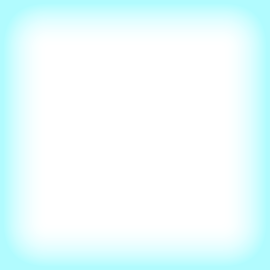
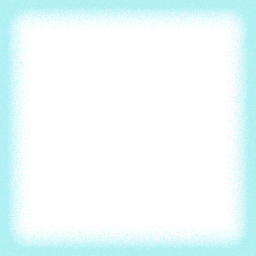
Fixed the app
Replaced box assets by power-of-two img size and that fixed the bug. Replaced app icon (wasn't working properly). Changed properties of first five levels and free game in order for them to be achievable.

diff --git a/core/src/com/nicocharm/biodots/BioDots.java b/core/src/com/nicocharm/biodots/BioDots.java
@@ -331,7 +331,7 @@ public class BioDots extends Game {
         freeGame.setInitialTime(0);
         freeGame.setnBacterias(15);
         freeGame.setMutationStDev(0.033f);
-        freeGame.setpOfRep(0.0025);
+        freeGame.setpOfRep(0.0005);
         freeGame.setFreeGame(true);
         freeGame.setInterval(2f);
 
@@ -404,6 +404,7 @@ public class BioDots extends Game {
 
 		level = new ScreenCreator();
 		level.setInitial_pOfDying(1f);
+        level.setpOfRep(0.0008);
 
 		buttonTypes = new short[5];
 		buttonTypes[0] = Antibiotic.ANTIBIOTIC_WHITE;
@@ -420,7 +421,7 @@ public class BioDots extends Game {
 		}
 		level.setBacteriaTypes(types);
 
-		level.setInitialTime(60f);
+		level.setInitialTime(120f);
 
 		goals = new String[2];
 		goals[0] = "Matá a las bacterias!\nSi no te apurás se dividen!";
@@ -448,6 +449,7 @@ public class BioDots extends Game {
 
 		level = new ScreenCreator();
 		level.setInitial_pOfDying(1f);
+		level.setpOfRep(0.0007);
 
 		buttonTypes = new short[5];
 		buttonTypes[0] = Antibiotic.ANTIBIOTIC_WHITE;
@@ -464,7 +466,7 @@ public class BioDots extends Game {
 		}
 		level.setBacteriaTypes(types);
 
-		level.setInitialTime(60f);
+		level.setInitialTime(120f);
 
 		goals = new String[2];
 		goals[0] = "El antibiotico azul es más\n" +
@@ -497,7 +499,8 @@ public class BioDots extends Game {
 
 		level = new ScreenCreator();
 		level.setInitial_pOfDying(1f);
-		level.setInitialTime(60f);
+		level.setInitialTime(120f);
+        level.setpOfRep(0.0010);
 
 		buttonTypes = new short[5];
 		buttonTypes[0] = Antibiotic.ANTIBIOTIC_WHITE;
@@ -554,6 +557,7 @@ public class BioDots extends Game {
 
 		level = new ScreenCreator();
 		level.setInitial_pOfDying(1f);
+        level.setpOfRep(0.0008);
 
 		buttonTypes = new short[5];
 		buttonTypes[0] = Antibiotic.ANTIBIOTIC_WHITE;
@@ -617,6 +621,7 @@ public class BioDots extends Game {
 
 		level = new ScreenCreator();
 		level.setInitial_pOfDying(1f);
+        level.setpOfRep(0.0008);
 
 		buttonTypes = new short[5];
 		buttonTypes[0] = Antibiotic.ANTIBIOTIC_WHITE;

diff --git a/core/src/com/nicocharm/biodots/Assets.java b/core/src/com/nicocharm/biodots/Assets.java
@@ -21,10 +21,11 @@ public class Assets {
         manager  = new AssetManager();
     }
     public void load(){
+
         manager.load("title.png", Texture.class);
 
         //manager.load("small-textures.pack", TextureAtlas.class);
-
+        Gdx.app.log("tag", "loading assets");
         manager.load("menu-button.png", Texture.class);
         manager.load("menu-button-transparent.png", Texture.class);
         manager.load("power-bar-bg.png", Texture.class);
@@ -105,7 +106,7 @@ public class Assets {
         font4.fontParameters.size = 80;
         manager.load("Roboto-Regular.ttf", BitmapFont.class, font4);*/
 
-
+        Gdx.app.log("tag", "finishing loading assets");
     }
     public void finishLoading(){
         manager.finishLoading();

diff --git a/core/src/com/nicocharm/biodots/Antibiotic.java b/core/src/com/nicocharm/biodots/Antibiotic.java
@@ -109,7 +109,7 @@ public class Antibiotic extends Actor{
                 break;
             case ANTIBIOTIC_WHITE:
                 path = "antibiotic-white.pack";
-                pOfKilling = 0.45f;
+                pOfKilling = 0.5f;
                 duration = 4f;
                 inactiveTime = 0;
                 cost = 0;

diff --git a/core/src/com/nicocharm/biodots/screens/ScreenCreator.java b/core/src/com/nicocharm/biodots/screens/ScreenCreator.java
@@ -123,7 +123,7 @@ public class ScreenCreator {
 
         pOfRep = 0.0011;
         
-        mutationStDev = 0.1f;
+        mutationStDev = 0.05f;
 
         interval = 4f;
     }
